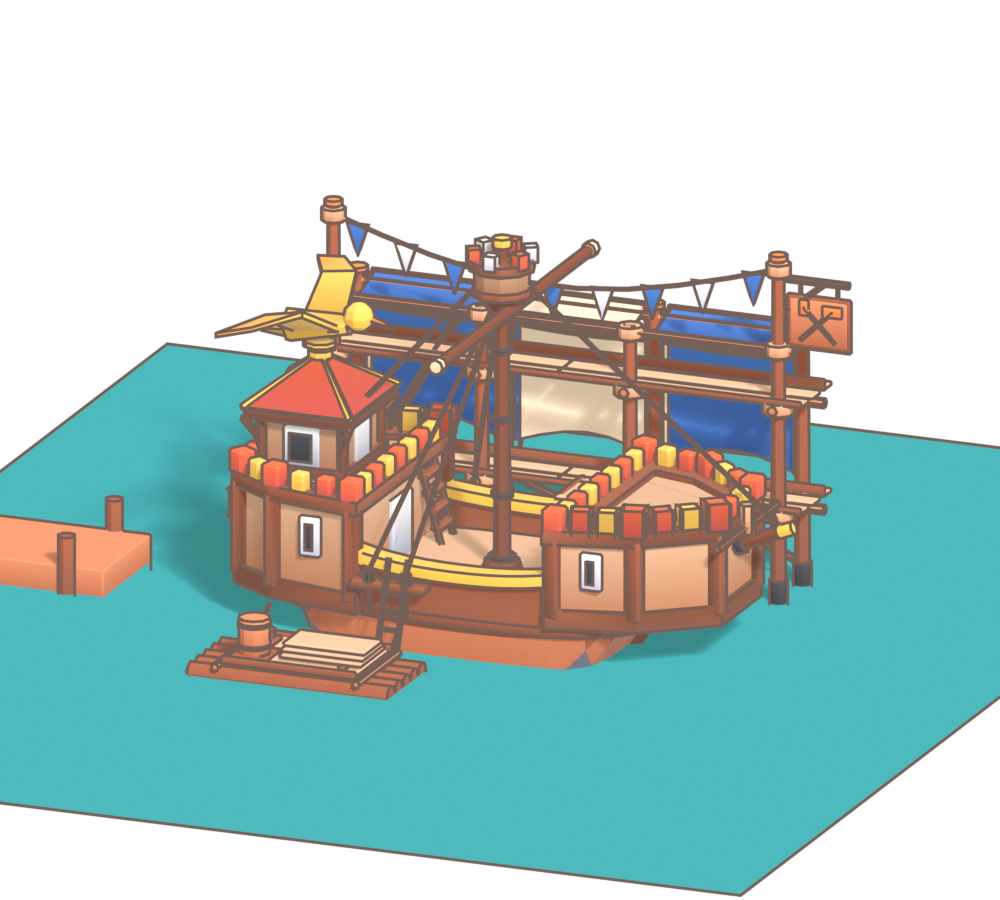
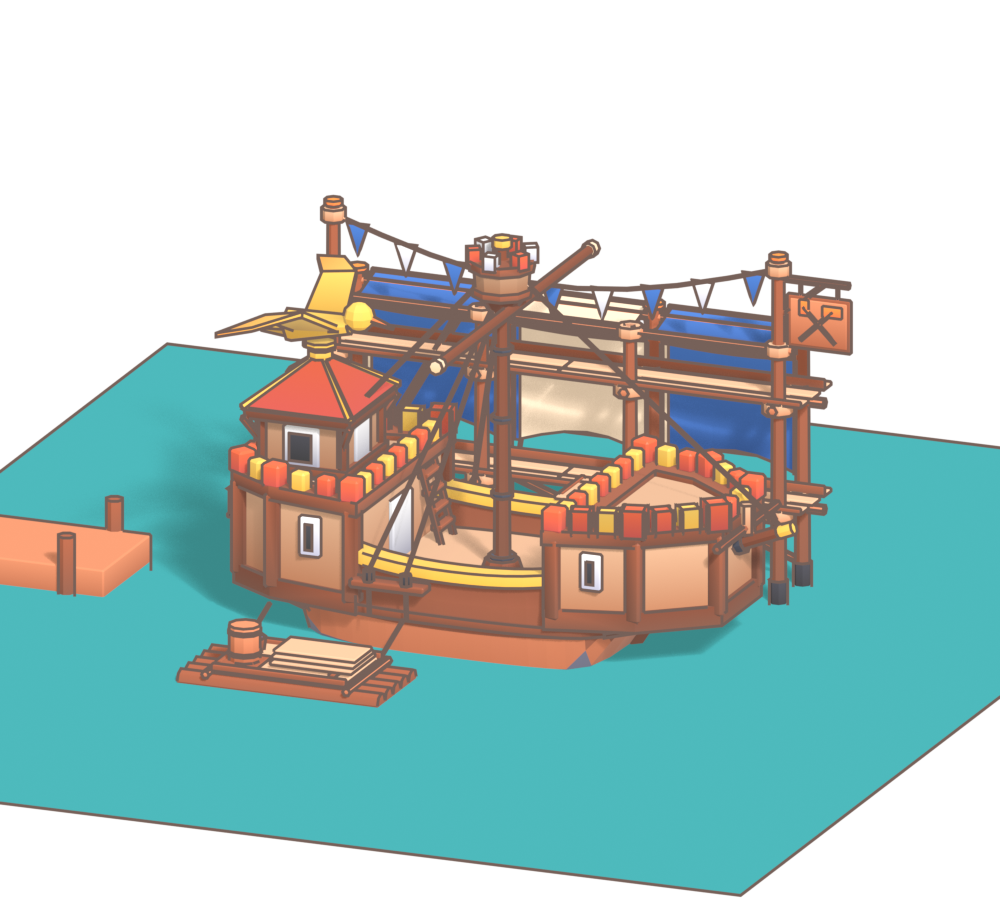
docs: storyboard of the dock works going up, hiding the ship and unveiling it

Changed region(s): [[0.155, 0.6222, 0.434, 0.8089]]

diff --git a/scripts/blender/blockout-dockworks.py b/scripts/blender/blockout-dockworks.py
@@ -27,6 +27,7 @@ OUT = ARGS[0]
 SHIP = ARGS[1] if len(ARGS) > 1 else "standard"
 from blockout_kit import *  # noqa: E402,F403
 import blockout_kit as kit  # noqa: E402
+import bmesh  # noqa: E402
 
 kit.SWATCHES["player"] = ("#4a7fd4", "#345fa8")  # the seat's colour in the game; blue stands in on the sheet
 kit.SWATCHES["sea"] = ("#2fa3a8", "#27898e")
@@ -41,11 +42,15 @@ kit.finish = lambda bm, name, mat, shade=1.0: _finish(bm, name.replace(".", "_")
 
 def load_ship():
     hull = "freighter.glb" if SHIP == "freighter" else f"{SHIP}-up.glb"
-    for name in (hull, f"{SHIP}-skill.glb"):
+    # The ship as it is before the skill (its plain hull), and after (the changed hull and the skill's part).
+    for name, when in ((f"{SHIP}.glb", "before"), (hull, "after"), (f"{SHIP}-skill.glb", "after")):
+        if name == hull and SHIP == "freighter":
+            continue
+        seen = set(kit.SCENE.objects)
         bpy.ops.import_scene.gltf(filepath=os.path.join(kit.REPO, "public/models/ships", name))
-    for ob in kit.SCENE.objects:
-        if ob.type == "MESH":
-            ob["model"] = True
+        for ob in set(kit.SCENE.objects) - seen:
+            if ob.type == "MESH":
+                ob["model"] = when if SHIP != "freighter" or name != f"{SHIP}.glb" else "both"
 
 
 def context():
@@ -68,7 +73,7 @@ def half_width():
             continue
         for v in ob.data.vertices:
             w = ob.matrix_world @ v.co  # Blender space: x across, -y toward the bow, z up
-            if abs(w.y) < 2.2 and WATER + 0.2 < w.z < 1.9:
+            if ob.get("model") != "before" and abs(w.y) < 2.2 and WATER + 0.2 < w.z < 1.9:
                 xs.append(abs(w.x))
     xs.sort()
     return xs[int(len(xs) * 0.97)] if xs else 1.2
@@ -81,7 +86,8 @@ print(f"HALF WIDTH {SHIP} {HALF:.2f}")
 # hull by the same gap whatever the ship (the game places the two pieces by the ship type's half width).
 GAP = 0.42
 STAGE_X = (HALF + GAP, HALF + GAP + 0.8)
-FLOAT_X = -(HALF + 0.3)
+FLOAT_X = -(HALF + 0.62)
+CURTAIN_X = -(HALF + 0.3)  # the curtain hangs between the hull and the float
 BAYS = (-3.0, -1.0, 1.0, 3.0)
 LOW, HIGH = 1.75, 3.15  # the two plank levels: at the rail, and at the castles' tops
 TOPS = {-3.0: 5.0, -1.0: 3.9, 1.0: 3.9, 3.0: 5.0}  # the end piles carry the bunting
@@ -275,27 +281,124 @@ def work_float():
         box(f"works-bearer{z}", (x1 -0.65, WATER + 0.27, z), (0.9, 0.05, 0.08), "woodDark", bevel=0.01)
     for i in range(3):
         box(f"works-stack{i}", (x1 -0.65, WATER + 0.325 + i * 0.06, -1.05), (0.8 - i * 0.12, 0.05, 1.1), "deck", bevel=0.012, shade=0.9 + i * 0.05)
-    # The ladder up the ship's side, hooked over the rail.
-    for dz in (-0.13, 0.13):
-        beam(f"works-side-ladder{dz}", (x1 -0.05, WATER + 0.26, -0.55 + dz), (-HALF + 0.02, 1.8, -0.55 + dz), 0.055, "woodDark", sides=6)
-    lean = (-HALF + 0.02) - (x1 - 0.05)
-    for i in range(1, 5):
-        t = i / 5
-        px, py = x1 - 0.05 + lean * t, WATER + 0.26 + (1.8 - WATER - 0.26) * t
-        beam(f"works-side-rung{i}", (px, py, -0.68), (px, py, -0.42), 0.04, "wood", sides=6)
+
+
+def curtain():
+    """The curtain on the side the ship-pick camera looks from: two tall poles on the float's side, a line between them,
+    and one great sheet in the player's colour with the yard's mark, which hides the ship while the yard works and is
+    let fall to show it. The poles are stepped in tubs lashed to stakes; the sheet runs on rings."""
+    x, top = CURTAIN_X, 5.35
+    for z in (-3.35, 3.35):
+        beam(f"curtain-pole{z}", (x, WATER - 0.04, z), (x, top, z), 0.17, "woodDark", sides=8, taper=0.7)
+        prism(f"curtain-tar{z}", (x, WATER - 0.04, z), 0.1, 0.34, "dark", sides=8)
+        prism(f"curtain-cap{z}", (x, top, z), 0.09, 0.07, "brass", sides=8)
+        # A stay from each pole's head down to a stake further out, so a pole with a sheet on it does not stand alone.
+        beam(f"curtain-stay{z}", (x, top - 0.15, z), (x - 1.1, WATER + 0.3, z * 1.12), 0.035, "rope", sides=5)
+        beam(f"curtain-stake{z}", (x - 1.1, WATER - 0.04, z * 1.12), (x - 1.1, WATER + 0.45, z * 1.12), 0.12, "woodDark", sides=8)
+    n = 12
+    line = []
+    for i in range(n + 1):
+        t = i / n
+        line.append((x, top - 0.15 - 0.3 * math.sin(math.pi * t), -3.35 + 6.7 * t))
+    for i, (p, q) in enumerate(zip(line, line[1:])):
+        beam(f"curtain-line{i}", p, q, 0.04, "rope", sides=5)
+    foot = WATER + 0.55
+    verts, faces = [], []
+    for i, (lx, ly, lz) in enumerate(line):
+        fold = 0.07 * (1 if i % 2 == 0 else -1)
+        verts += [(lx + fold * 0.3, ly - 0.06, lz), (lx + fold, (ly + foot) / 2, lz), (lx + fold * 1.3, foot, lz)]
+    for i in range(n):
+        k = i * 3
+        faces += [[k, k + 3, k + 4, k + 1], [k + 1, k + 4, k + 5, k + 2]]
+    back = len(verts)
+    verts += [(vx + 0.03, vy, vz) for vx, vy, vz in verts]
+    faces += [[back + k for k in reversed(f)] for f in list(faces)]
+    mesh_from("x-curtain-sheet", verts, faces, "player")
+    # A cream band along the head and the foot, and the rings the sheet runs on.
+    for y0, y1, name in ((top - 0.52, top - 0.86, "head"), (foot + 0.34, foot, "foot")):
+        band = [(x - 0.09, y0 - (0.3 * math.sin(math.pi * i / n) if name == "head" else 0), -3.35 + 6.7 * i / n) for i in range(n + 1)]
+        bv = []
+        for bx, by, bz in band:
+            bv += [(bx, by, bz), (bx, by - abs(y0 - y1), bz)]
+        mesh_from(f"x-curtain-band-{name}", bv + [(vx - 0.02, vy, vz) for vx, vy, vz in bv], [[i * 2, i * 2 + 1, i * 2 + 3, i * 2 + 2] for i in range(n)], "canvas")
+    for i in range(1, n, 2):
+        prism(f"curtain-ring{i}", (line[i][0], line[i][1] - 0.07, line[i][2]), 0.07, 0.06, "brass", sides=8)
+    # The yard's mark on the sheet, large: the mallet and the adze of the sign, in cream.
+    cx, cy = x - 0.11, (top + foot) / 2 - 0.1
+    beam("curtain-mark-handle", (cx, cy - 0.85, -0.75), (cx, cy + 0.55, 0.65), 0.16, "canvas", sides=6)
+    box("curtain-mark-head", (cx, cy + 0.6, 0.7), (0.06, 0.42, 0.8), "canvas", bevel=0.02)
+    beam("curtain-mark-adze", (cx, cy - 0.85, 0.75), (cx, cy + 0.55, -0.65), 0.16, "canvas", sides=6)
+    box("curtain-mark-blade", (cx, cy + 0.62, -0.7), (0.06, 0.6, 0.36), "canvas", bevel=0.02)
+
+
+def splashes():
+    """Where the piles break the water as they come up: a white ring round each."""
+    rings = [(x, z) for z in BAYS for x in STAGE_X] + [(CURTAIN_X, -3.35), (CURTAIN_X, 3.35)]
+    for x, z in rings:
+        prism(f"x-splash{x}{z}", (x, WATER + 0.01, z), 0.34, 0.03, "marble", sides=10)
+
+
+def puff(name, at, r, shade=1.0):
+    """One ball of work dust: a low icosphere, flat shaded, cream."""
+    bm = bmesh.new()
+    bmesh.ops.create_icosphere(bm, subdivisions=1, radius=r)
+    for v in bm.verts:
+        v.co = V(at[0] + v.co.x, at[1] + v.co.z, at[2] - v.co.y)
+    bmesh.ops.recalc_face_normals(bm, faces=bm.faces)
+    return kit.finish(bm, name, "marble", shade)
+
+
+def smoke():
+    """The yard at work behind its curtain: balls of dust boiling up over the sheet and out at both ends, bigger low
+    down, smaller as they rise (in the game each grows, drifts up and fades)."""
+    spots = [
+        (0.2, 4.9, -2.4, 1.0), (-0.5, 5.5, -1.3, 0.8), (0.4, 5.2, -0.2, 1.1), (-0.3, 5.9, 0.9, 0.75), (0.3, 5.0, 2.1, 0.95),
+        (-0.2, 6.4, -0.4, 0.55), (0.5, 6.1, 1.6, 0.5), (-0.6, 4.4, 3.5, 0.8), (0.4, 4.2, -3.7, 0.85), (CURTAIN_X - 0.3, 1.2, 3.9, 0.6),
+        (CURTAIN_X - 0.3, 1.1, -3.9, 0.65), (STAGE_X[1] + 0.3, 4.6, 0.3, 0.7), (0.0, 6.9, 0.6, 0.35),
+    ]
+    for i, (x, y, z, r) in enumerate(spots):
+        puff(f"x-smoke{i}", (x, y, z), r, shade=0.86 + 0.14 * ((i * 37) % 10) / 10)
+    # Stars of the hammers' blows over the sheet, in gold.
+    for i, (x, y, z) in enumerate(((-0.9, 5.9, -2.2), (0.9, 6.3, 0.4), (-0.4, 5.6, 2.6))):
+        for k in range(4):
+            a = math.pi * k / 4
+            beam(f"x-spark{i}{k}", (x, y - 0.3 * math.sin(a), z - 0.3 * math.cos(a)), (x, y + 0.3 * math.sin(a), z + 0.3 * math.cos(a)), 0.07, "gold", sides=4)
+
+
+def fallen():
+    """The curtain let go: the sheet lying in folds on the water under its line."""
+    x = CURTAIN_X
+    for i in range(7):
+        z = -2.9 + i * 0.97
+        box(f"x-fallen{i}", (x - 0.25 - 0.1 * (i % 2), WATER + 0.05, z), (0.9 + 0.2 * (i % 3), 0.07, 0.8), "player", bevel=0.03, yaw=0.25 * (i % 3 - 1))
 
 
 # ---------------------------------------------------------------- render
 
 context()
 first = len(PARTS)
-staging()
-canvas()
-awning()
-bunting()
-sign()
-work_float()
-works = [ob for ob, _, _ in PARTS[first:]]
+
+
+def built(fn):
+    """The parts one builder adds."""
+    start = len(PARTS)
+    fn()
+    return [ob for ob, _, _ in PARTS[start:]]
+
+
+frame = built(staging)
+piles = [ob for ob in frame if ob.name.startswith(("works-pile", "works-tar", "works-cap"))]
+frame = [ob for ob in frame if ob not in piles]
+cloth = built(canvas) + built(awning) + built(bunting) + built(sign)
+raft = built(work_float)
+drape = built(curtain)
+poles = [ob for ob in drape if ob.name.startswith(("curtain-pole", "curtain-tar", "curtain-cap", "curtain-stake"))]
+drape = [ob for ob in drape if ob not in poles]
+rings = built(splashes)
+dust = built(smoke)
+heap = built(fallen)
+works = piles + frame + cloth + raft
+extras = poles + drape + rings + dust + heap
 colour_parts()
 check_normals(skip=("x-",))
 setup_render()
@@ -329,14 +432,40 @@ VIEWS = {
     "near": orbit("cam-near", 120, 22, (2.0, 2.6, -1.6), 5.2, (1000, 900)),
 }
 os.makedirs(OUT, exist_ok=True)
-for state in ("off", "on"):
-    for ob in works:
-        ob.hide_render = state == "off"
-    for name, (cam, (w, h)) in VIEWS.items():
-        if state == "off" and name in ("near", "top", "far"):
-            continue
+models = [ob for ob in kit.SCENE.objects if ob.get("model")]
+
+
+def show(parts, ship):
+    """Only `parts` of the works on screen, and the ship as it is `before` or `after` the skill."""
+    for ob in works + extras:
+        ob.hide_render = ob not in parts
+    for ob in models:
+        ob.hide_render = ob["model"] not in (ship, "both")
+
+
+def render(name, views):
+    for view in views:
+        cam, (w, h) = VIEWS[view]
         kit.SCENE.camera = cam
         kit.SCENE.render.resolution_x, kit.SCENE.render.resolution_y = w, h
-        kit.SCENE.render.filepath = os.path.join(OUT, f"dockworks-{name}-{state}.png")
+        kit.SCENE.render.filepath = os.path.join(OUT, f"dockworks-{view}-{name}.png")
         bpy.ops.render.render(write_still=True)
+
+
+# The sheet's two states (the works as they stand open while you load the ship), then the six beats of the show.
+show([], "after")
+render("off", ("own", "side"))
+show(works, "after")
+render("on", ("own", "side", "far", "top", "near"))
+BEATS = [
+    ("1-piles", piles + poles + rings, "before"),
+    ("2-frame", piles + poles + frame + raft, "before"),
+    ("3-covered", works + poles + drape, "before"),
+    ("4-working", works + poles + drape + dust, "before"),
+    ("5-unveiled", works + poles + heap, "after"),
+    ("6-struck", rings, "after"),
+]
+for name, parts, ship in BEATS:
+    show(parts, ship)
+    render(name, ("side", "own"))
 print("RENDERED dock works", len(works), "parts")

diff --git a/docs/proposals/2026-11-v08-presentation-plan.md b/docs/proposals/2026-11-v08-presentation-plan.md
@@ -37,7 +37,7 @@
 | --- | --- | --- |
 | 0. 畫面說真話 | 船卡改成掉箱表；回合數不再寫「／6」；選島卡的自由港、燈塔島文字；開局亮出兩個候選暗潮並常駐 | 不用 |
 | 1. 出航結算（件數制） | 船上看得到幾箱貨；結果出來後箱子從最貴的開始一箱一箱掉進海裡（水花、音效位置先留）；剩下的箱數賣錢；孤注號與海嘯號的倍率 | 不用（用現有貨箱模型） |
-| 2. 材料動作與建築 | 進行中（2026-11-17）：舊的四棟程式碼建築不沿用（使用者：不夠精緻，都是多邊體堆砌而成），三棟都在 Blender 重做：設計稿 [`../art/facilities-concept.png`](../art/facilities-concept.png)，使用者已確認方向、封邊與接合處；模型 `public/models/facilities/*.glb`（`scripts/blender/build-facilities.py`）。已放上島：位置在島後方兩塊舊空地之間（`scene/facilityLot.ts`），大小 1.2 倍，是八座島都不壓到造景的最大值（有測試）；桌面狀態從公開事件記錄誰蓋了哪棟、開了哪些技能，倉庫也扣掉材料與暗潮損失，與引擎一致（有測試）。預覽：`/v07.html?dev=facilities`。修船廠改成冷色滑道、深色船身、翠綠屋頂（原本在香料群島的紅土上撞色）。投資的裝貨步驟左側有「材料動作」面板（`table3d/MaterialPanel.tsx`、`table/investChoice.ts` 的 `materialCards`、`withMaterial`、`protectChoices`）：三棟建築與五個船技能各一張卡（圖、效果、要幾箱材料、不能選的原因），商行的主人在這裡指定保護的貨；選了會從可裝的貨扣掉材料。登場與反應（`table3d/facilityShow.ts`、`scene/Facility.tsx`）：蓋好的那回合，出航時島上跳出「修船廠 落成」（開技能是「好兆頭 開啟」），建築從上方落下、壓扁回彈、揚塵；結算時建築發揮作用（少掉箱、海盜少拿、擋下暗潮等，引擎的 `v08-effect` 事件）會在島上跳出一行說明並彈跳一下，跟船有關的在那艘船的結果出來時、跟市場有關的在市場結算完時。預覽：`/v07.html?dev=facilities&raise` 的「落成」「反應」按鈕。鏡頭（2026-11-18，使用者決定）：蓋建築的決定留在港口的材料動作面板（材料和貨是同一堆，要在同一個畫面比較），按下建築卡時鏡頭自己滑到島後方看建築落下、約 2 秒後自己回到船（`ShipSideCamera` 的 `lot`、`lotShot`），取消時不動；出航時有人蓋建築，鏡頭收到有訊息的那幾座島並多停 1.2 秒（`useIslandMoments` 的 `camera`）。造船廠不做成第四棟建築（人人都有、形狀會撞修船廠），改做碼頭邊的工事（使用者 2026-11-18 決定）：開技能那回合船邊搭起施工架，出航時拆掉。粗模設計稿 [`../art/dockworks-concept.png`](../art/dockworks-concept.png)（`scripts/blender/blockout-dockworks.py`）使用者 2026-11-18 確認方向，細修中：五艘船各套過一次（施工架與工作筏依船寬往外擺，離船身的距離相同）；封邊（踏板的深色擋邊、樁腳的柏油、帆布的橫杆與邊條、木筏的邊框）與接合（橫木綁紮、樁頂銅帽、梯腳擋木）；改前改後對照 [`../art/blockouts/dockworks/refine-before-after.jpg`](../art/blockouts/dockworks/refine-before-after.jpg)。**還沒做：** 建模匯出與做進遊戲、出現與拆掉的動畫、施工中帆要不要收起來（待使用者決定）；海嘯號船尾的槳離施工架最後一根樁很近，沒有近看確認。**還沒做：** 落成與反應沒有音效；出航時只有一座島有訊息的單島特寫沒看過（試玩那局四座島都有訊息，等於整桌）；手機上鏡頭帶去島上時面板會不會擋住建築沒看過；手機版面沒測；整桌視角下自己的名牌可能蓋到島後方的建築；落成訊息與結算時的說明只在預覽頁看過動畫，沒在完整對局裡看過。 |
+| 2. 材料動作與建築 | 進行中（2026-11-17）：舊的四棟程式碼建築不沿用（使用者：不夠精緻，都是多邊體堆砌而成），三棟都在 Blender 重做：設計稿 [`../art/facilities-concept.png`](../art/facilities-concept.png)，使用者已確認方向、封邊與接合處；模型 `public/models/facilities/*.glb`（`scripts/blender/build-facilities.py`）。已放上島：位置在島後方兩塊舊空地之間（`scene/facilityLot.ts`），大小 1.2 倍，是八座島都不壓到造景的最大值（有測試）；桌面狀態從公開事件記錄誰蓋了哪棟、開了哪些技能，倉庫也扣掉材料與暗潮損失，與引擎一致（有測試）。預覽：`/v07.html?dev=facilities`。修船廠改成冷色滑道、深色船身、翠綠屋頂（原本在香料群島的紅土上撞色）。投資的裝貨步驟左側有「材料動作」面板（`table3d/MaterialPanel.tsx`、`table/investChoice.ts` 的 `materialCards`、`withMaterial`、`protectChoices`）：三棟建築與五個船技能各一張卡（圖、效果、要幾箱材料、不能選的原因），商行的主人在這裡指定保護的貨；選了會從可裝的貨扣掉材料。登場與反應（`table3d/facilityShow.ts`、`scene/Facility.tsx`）：蓋好的那回合，出航時島上跳出「修船廠 落成」（開技能是「好兆頭 開啟」），建築從上方落下、壓扁回彈、揚塵；結算時建築發揮作用（少掉箱、海盜少拿、擋下暗潮等，引擎的 `v08-effect` 事件）會在島上跳出一行說明並彈跳一下，跟船有關的在那艘船的結果出來時、跟市場有關的在市場結算完時。預覽：`/v07.html?dev=facilities&raise` 的「落成」「反應」按鈕。鏡頭（2026-11-18，使用者決定）：蓋建築的決定留在港口的材料動作面板（材料和貨是同一堆，要在同一個畫面比較），按下建築卡時鏡頭自己滑到島後方看建築落下、約 2 秒後自己回到船（`ShipSideCamera` 的 `lot`、`lotShot`），取消時不動；出航時有人蓋建築，鏡頭收到有訊息的那幾座島並多停 1.2 秒（`useIslandMoments` 的 `camera`）。造船廠不做成第四棟建築（人人都有、形狀會撞修船廠），改做碼頭邊的工事（使用者 2026-11-18 決定）：開技能那回合船邊搭起施工架，出航時拆掉。粗模設計稿 [`../art/dockworks-concept.png`](../art/dockworks-concept.png)（`scripts/blender/blockout-dockworks.py`）使用者 2026-11-18 確認方向，細修中：五艘船各套過一次（施工架與工作筏依船寬往外擺，離船身的距離相同）；封邊（踏板的深色擋邊、樁腳的柏油、帆布的橫杆與邊條、木筏的邊框）與接合（橫木綁紮、樁頂銅帽、梯腳擋木）；改前改後對照 [`../art/blockouts/dockworks/refine-before-after.jpg`](../art/blockouts/dockworks/refine-before-after.jpg)。使用者 2026-11-18：施工中帆不用收；蓋的時候要把船遮起來，要有搭鷹架的過程與煙霧。分鏡 [`../art/dockworks-storyboard.png`](../art/dockworks-storyboard.png)（**待使用者確認**）：立樁 → 架板 → 拉布（前方大幕升起遮住船）→ 施工（煙霧，船在裡面換成升級後）→ 揭幕 → 收工；自己選技能時播前五拍，施工架打開留到出航；對手的在出航公開時播遮著、揭幕、收工。**還沒做：** 建模匯出與做進遊戲；整桌鏡頭幾乎俯視，大幕是側面的，從上面遮不住船，只有煙霧那一拍遮得住；海嘯號船尾的槳離施工架最後一根樁很近，沒有近看確認。**還沒做：** 落成與反應沒有音效；出航時只有一座島有訊息的單島特寫沒看過（試玩那局四座島都有訊息，等於整桌）；手機上鏡頭帶去島上時面板會不會擋住建築沒看過；手機版面沒測；整桌視角下自己的名牌可能蓋到島後方的建築；落成訊息與結算時的說明只在預覽頁看過動畫，沒在完整對局裡看過。 |
 | 3. 船技能 | 五艘船各一個零件（開了技能才出現）＋觸發演出：好兆頭重擲、加注 ×4、拾荒、自帶掩護、巨浪加骰 | **要**：五個零件，先出設計稿 |
 | 4. 暗潮 | 暗潮將至（海變色）、揭曉是哪一種、倉庫減半、建築擋下的那一下、事件卡翻成 Boss 面、最後的大市集 | 可能要（四種暗潮的海面效果多半是程式特效；若要實體道具再出設計稿） |
 
